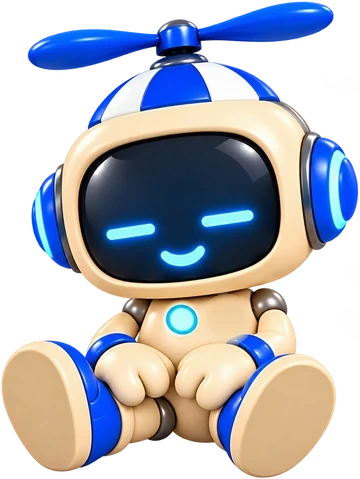
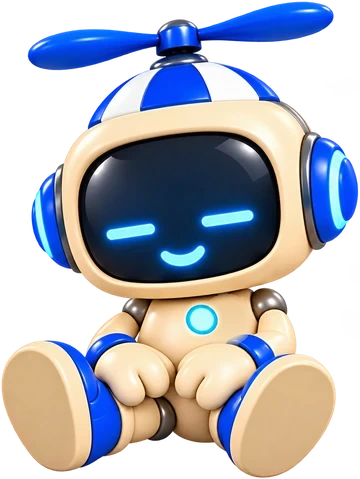
IAmiguinho: luz do peito no centro medido de cada pose (meio entre as juntas dos ombros)
Claude-Session: https://claude.ai/code/session_01EzS9DxgjdBzP7RojM8YLwB

Changed region(s): [[0.4278, 0.6138, 0.6111, 0.7015]]

diff --git a/src/lib/iamiguinhoTela.ts b/src/lib/iamiguinhoTela.ts
@@ -16,12 +16,12 @@ export const TELA: Record<string, { x: number; y: number; w: number; a: number }
   'pose-atrasado': { x: 59.73, y: 36.72, w: 42.87, a: 12.5 },
   'pose-cabo': { x: 47.38, y: 39.75, w: 43.85, a: -11.3 },
   'pose-controle': { x: 49.65, y: 43.56, w: 52.35, a: -14.0 },
-  'pose-dormindo': { x: 49.67, y: 43.3, w: 55.75, a: -7.1 },
+  'pose-dormindo': { x: 49.68, y: 43.3, w: 55.71, a: -7.1 },
   'pose-espiando': { x: 60.68, y: 42.22, w: 35.23, a: 23.2 },
   'pose-espiando-placa': { x: 60.68, y: 42.22, w: 35.23, a: 23.2 },
   'pose-heroi': { x: 50.26, y: 29.68, w: 45.64, a: 16.7 },
   'pose-mapa': { x: 46.03, y: 36.22, w: 50.54, a: 15.9 },
-  'pose-pacote': { x: 50.27, y: 37.09, w: 54.66, a: 8.1 },
+  'pose-pacote': { x: 50.24, y: 37.09, w: 54.62, a: 8.1 },
   'pose-placa': { x: 48.88, y: 33.33, w: 51.82, a: 0.0 },
   'pose-planando': { x: 47.49, y: 39.53, w: 41.81, a: 18.4 },
   'pose-trofeu': { x: 40.72, y: 36.63, w: 36.9, a: -26.6 },

diff --git a/art/iamiguinho/centralizar-luz.py b/art/iamiguinho/centralizar-luz.py
@@ -1,9 +1,8 @@
-# IAmiguinho: a luz azul do peito fica no centro do tronco. Nas poses de frente das imagens geradas ela saiu
-# deslocada para um lado; este script acha a luz (o círculo azul-claro cercado de bege), apaga e redesenha na linha
-# do meio do tronco, na mesma altura. A linha do meio de cada pose foi conferida uma a uma: o ponto médio entre as
-# juntas dos ombros e entre as do quadril (ALVO, em pixels da imagem original).
-# Nas poses de três quartos (atrasado, herói, planando, troféu) o tronco está virado e a luz original já acompanha o
-# giro; elas ficam como estão, assim como as poses em que o peito está escondido.
+# IAmiguinho: a luz azul do peito fica no centro do tronco. Nas imagens geradas ela saiu deslocada para um lado; este
+# script acha a luz (o círculo azul-claro cercado de bege), apaga e redesenha no centro, na mesma altura. O centro de
+# cada pose foi medido uma a uma, ampliada com régua: o ponto médio entre as duas juntas dos ombros, conferido com o
+# meio do pescoço e das juntas do quadril (ALVO, em pixels da imagem original). Vale também para as poses com o corpo
+# virado. Poses em que o peito está escondido (controle, mapa, placa, espiando) ficam como estão.
 # Rode antes do separar-helice.py e do limpar-tela.py:
 #   python3 art/iamiguinho/centralizar-luz.py && python3 art/iamiguinho/separar-helice.py && python3 art/iamiguinho/limpar-tela.py
 # Muda public/brand/iamiguinho/pose-*.webp no lugar. Rodar de novo não muda nada (a luz já está no centro).
@@ -20,7 +19,8 @@ def beige_ou_luz(nucleo, beige, luz, d0, R):
 ROOT = os.path.join(os.path.dirname(os.path.abspath(__file__)), '..', '..')
 PASTA = os.path.join(ROOT, 'public', 'brand', 'iamiguinho')
 nomes = sys.argv[1:] or None
-ALVO = {'pose-acenando': 171, 'pose-cabo': 212, 'pose-dormindo': 181, 'pose-pacote': 139}
+ALVO = {'pose-acenando': 170, 'pose-atrasado': 180, 'pose-cabo': 206, 'pose-dormindo': 201, 'pose-heroi': 156,
+        'pose-pacote': 135, 'pose-planando': 152, 'pose-trofeu': (179, 254)}  # (x, y) quando a luz também desce
 
 for path in sorted(glob.glob(os.path.join(PASTA, 'pose-*.webp'))):
     nome = os.path.basename(path)[:-5]
@@ -43,8 +43,9 @@ for path in sorted(glob.glob(os.path.join(PASTA, 'pose-*.webp'))):
         if cerca > 0.45 and (melhor is None or cerca > melhor[0]): melhor = (cerca, i, r0)
     if not melhor: print(nome, 'peito escondido'); continue
     _, i, r = melhor; lx, ly = cen[i]
-    cx = float(ALVO[nome])
-    if abs(cx - lx) < 3: print(nome, 'já no centro'); continue
+    alvo = ALVO[nome] if isinstance(ALVO[nome], tuple) else (ALVO[nome], None)
+    cx = float(alvo[0]); cy = float(alvo[1]) if alvo[1] is not None else ly
+    if abs(cx - lx) < 3 and abs(cy - ly) < 3: print(nome, 'já no centro'); continue
     R = r * 1.5
     # Apaga a luz antiga: o plástico bege em volta é liso, então o buraco é preenchido com uma superfície suave
     # (polinômio de grau 2 por canal) ajustada só nos pixels bege ao redor; as juntas escuras não vazam para dentro.
@@ -59,13 +60,13 @@ for path in sorted(glob.glob(os.path.join(PASTA, 'pose-*.webp'))):
     apaga = np.clip((R * 1.25 - d0) / (R * 0.55), 0, 1)[:, :, None] * beige_ou_luz(d0 < R * 1.1, beige, luz, d0, R * 1.25)
     limpo = rgb * (1 - apaga) + liso * apaga
     # A luz (núcleo, aro e brilho) colada no meio, na mesma altura, com a borda suave sobre o bege do lugar novo.
-    dx = int(round(cx - lx))
-    M = np.float32([[1, 0, dx], [0, 1, 0]])
+    dx = int(round(cx - lx)); dy = int(round(cy - ly))
+    M = np.float32([[1, 0, dx], [0, 1, dy]])
     luzrgb = cv2.warpAffine(rgb, M, (W, H), borderMode=cv2.BORDER_REPLICATE)
-    d2 = np.hypot(xx - (lx + dx), yy - ly)
+    d2 = np.hypot(xx - (lx + dx), yy - (ly + dy))
     proprio = cv2.warpAffine(beige_ou_luz(d0 < r * 1.06, beige, luz, d0, R)[:, :, 0].astype(np.uint8), M, (W, H)).astype(bool)
     alfa = (np.clip((r * 1.32 - d2) / (r * 0.22), 0, 1) * proprio)[:, :, None]
     novo = np.clip(luzrgb * alfa + limpo * (1 - alfa), 0, 255).astype(np.uint8)
     out = im.copy(); out[:, :, :3] = novo
     Image.fromarray(out).save(path, quality=92)
-    print(nome, f'luz de x={lx:.0f} para x={cx:.0f}')
+    print(nome, f'luz de ({lx:.0f}, {ly:.0f}) para ({cx:.0f}, {cy:.0f})')
